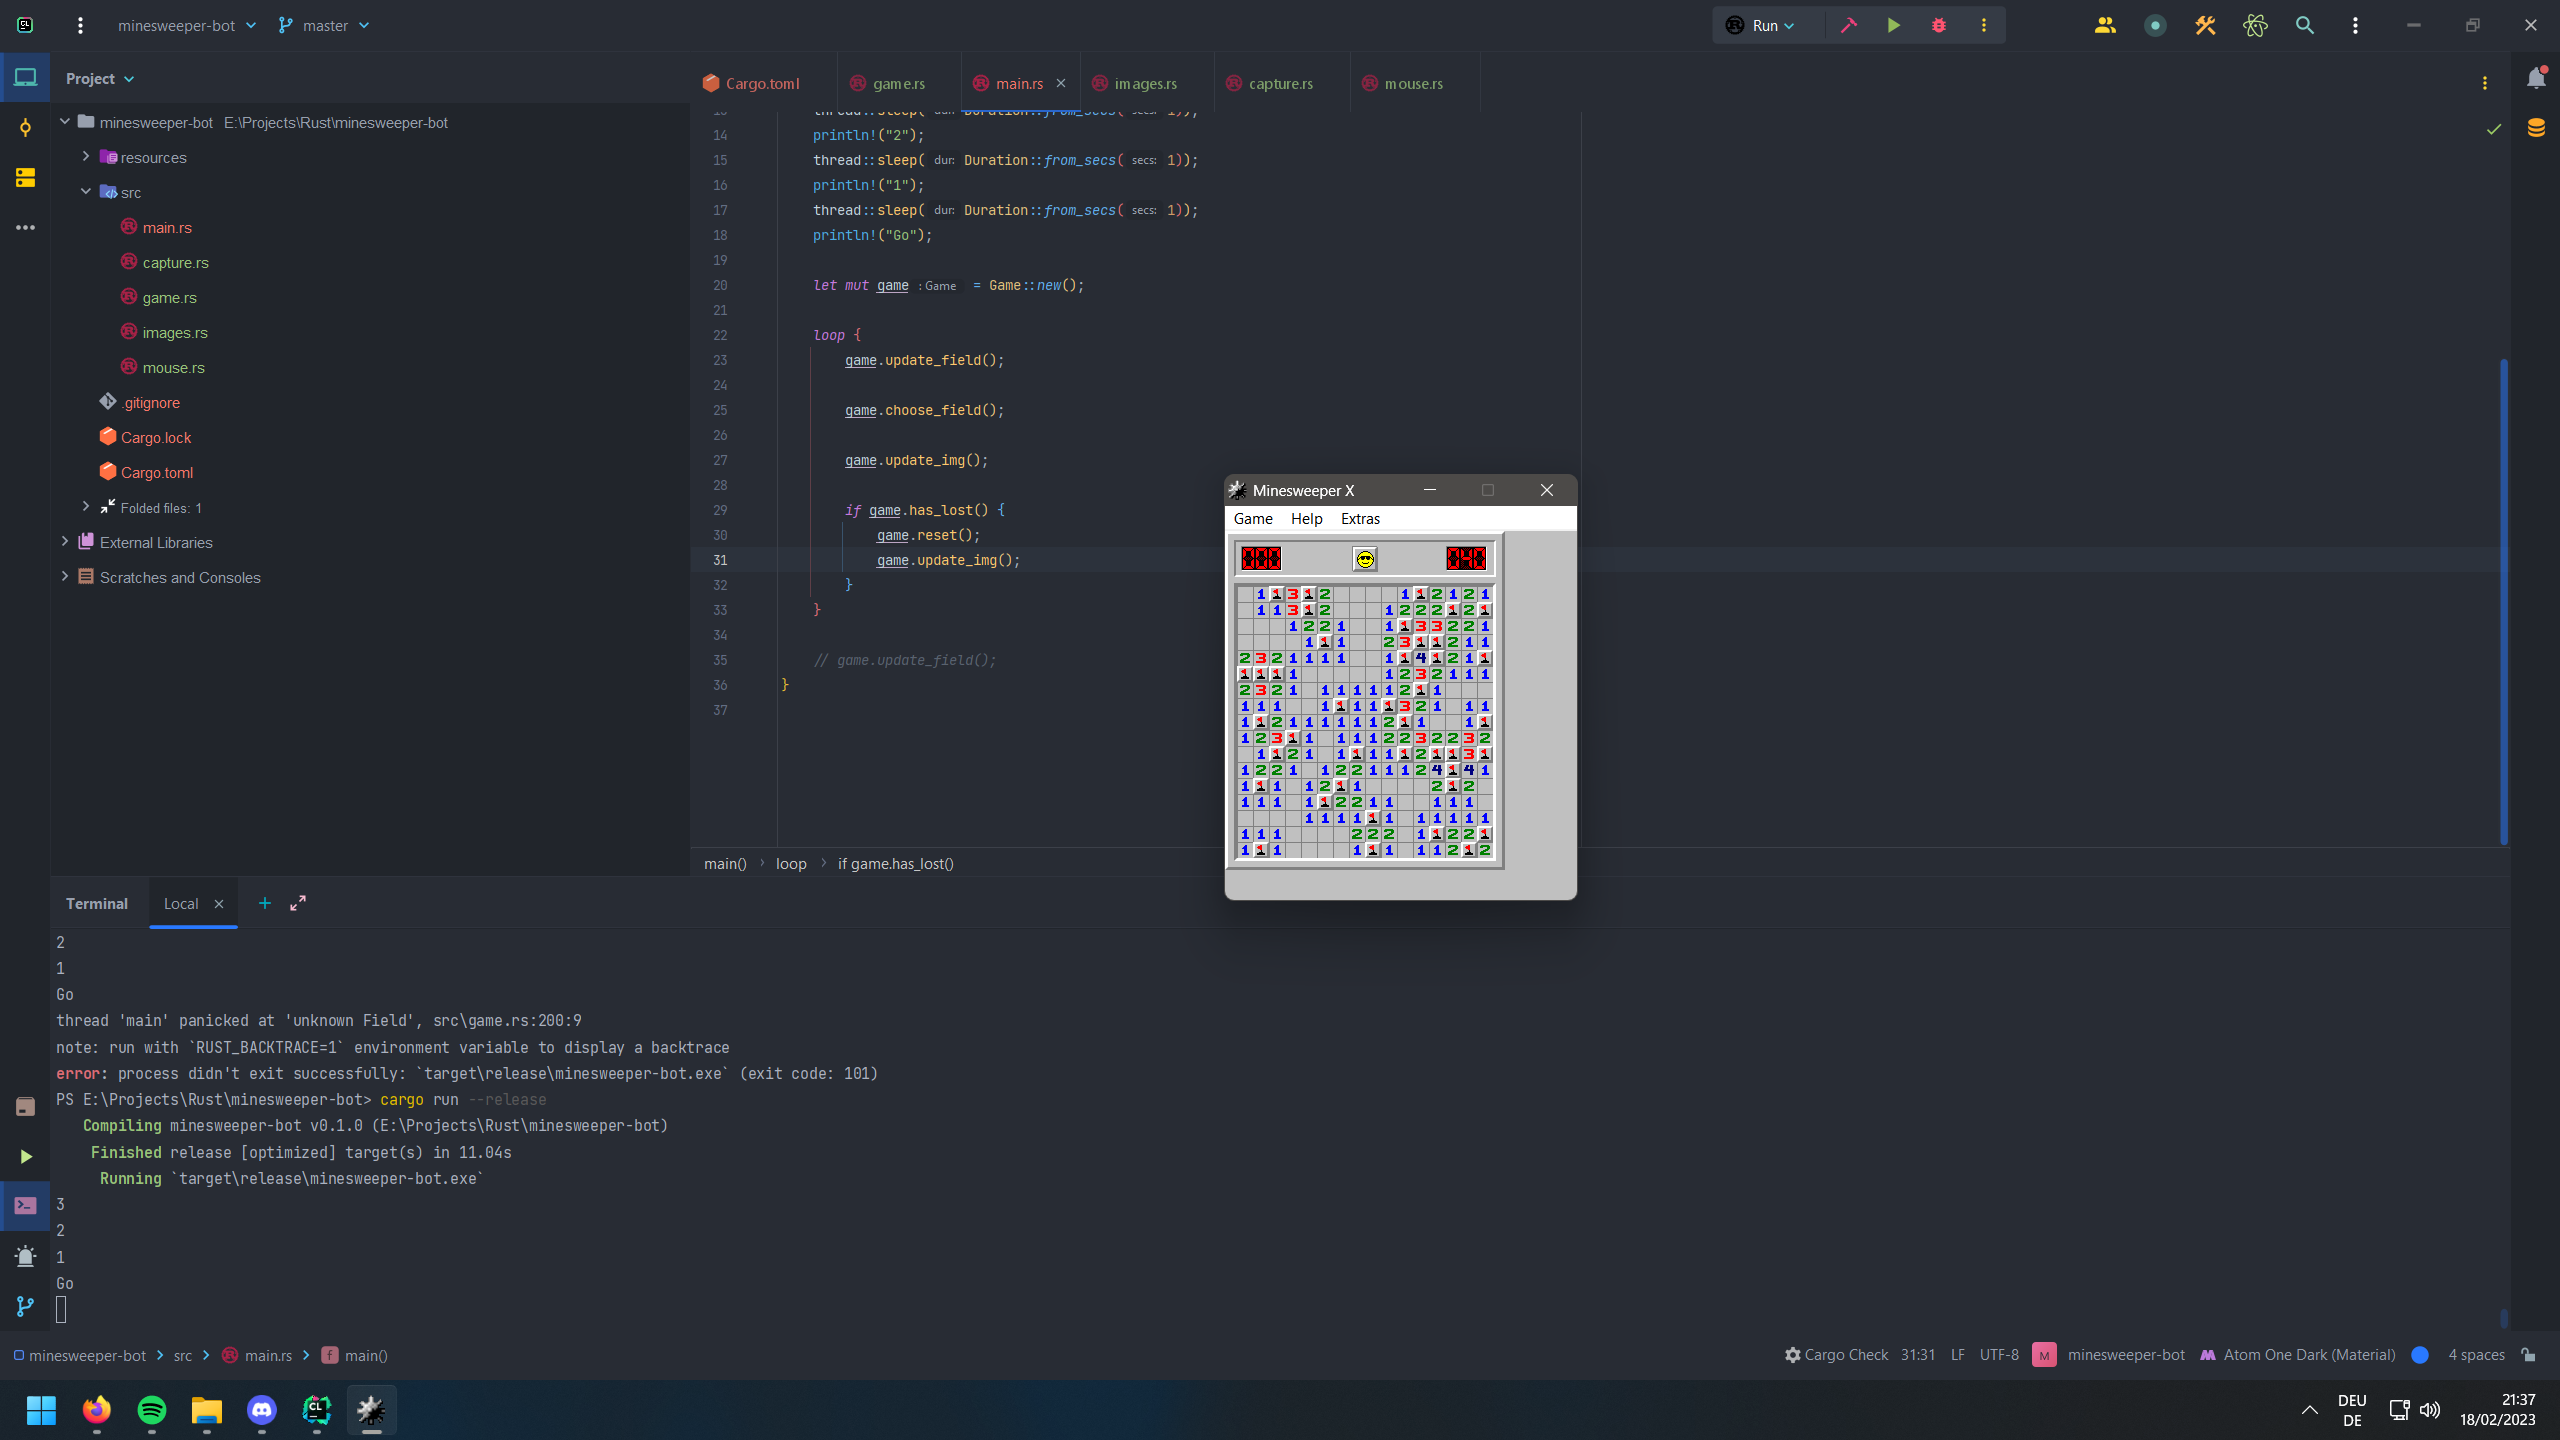
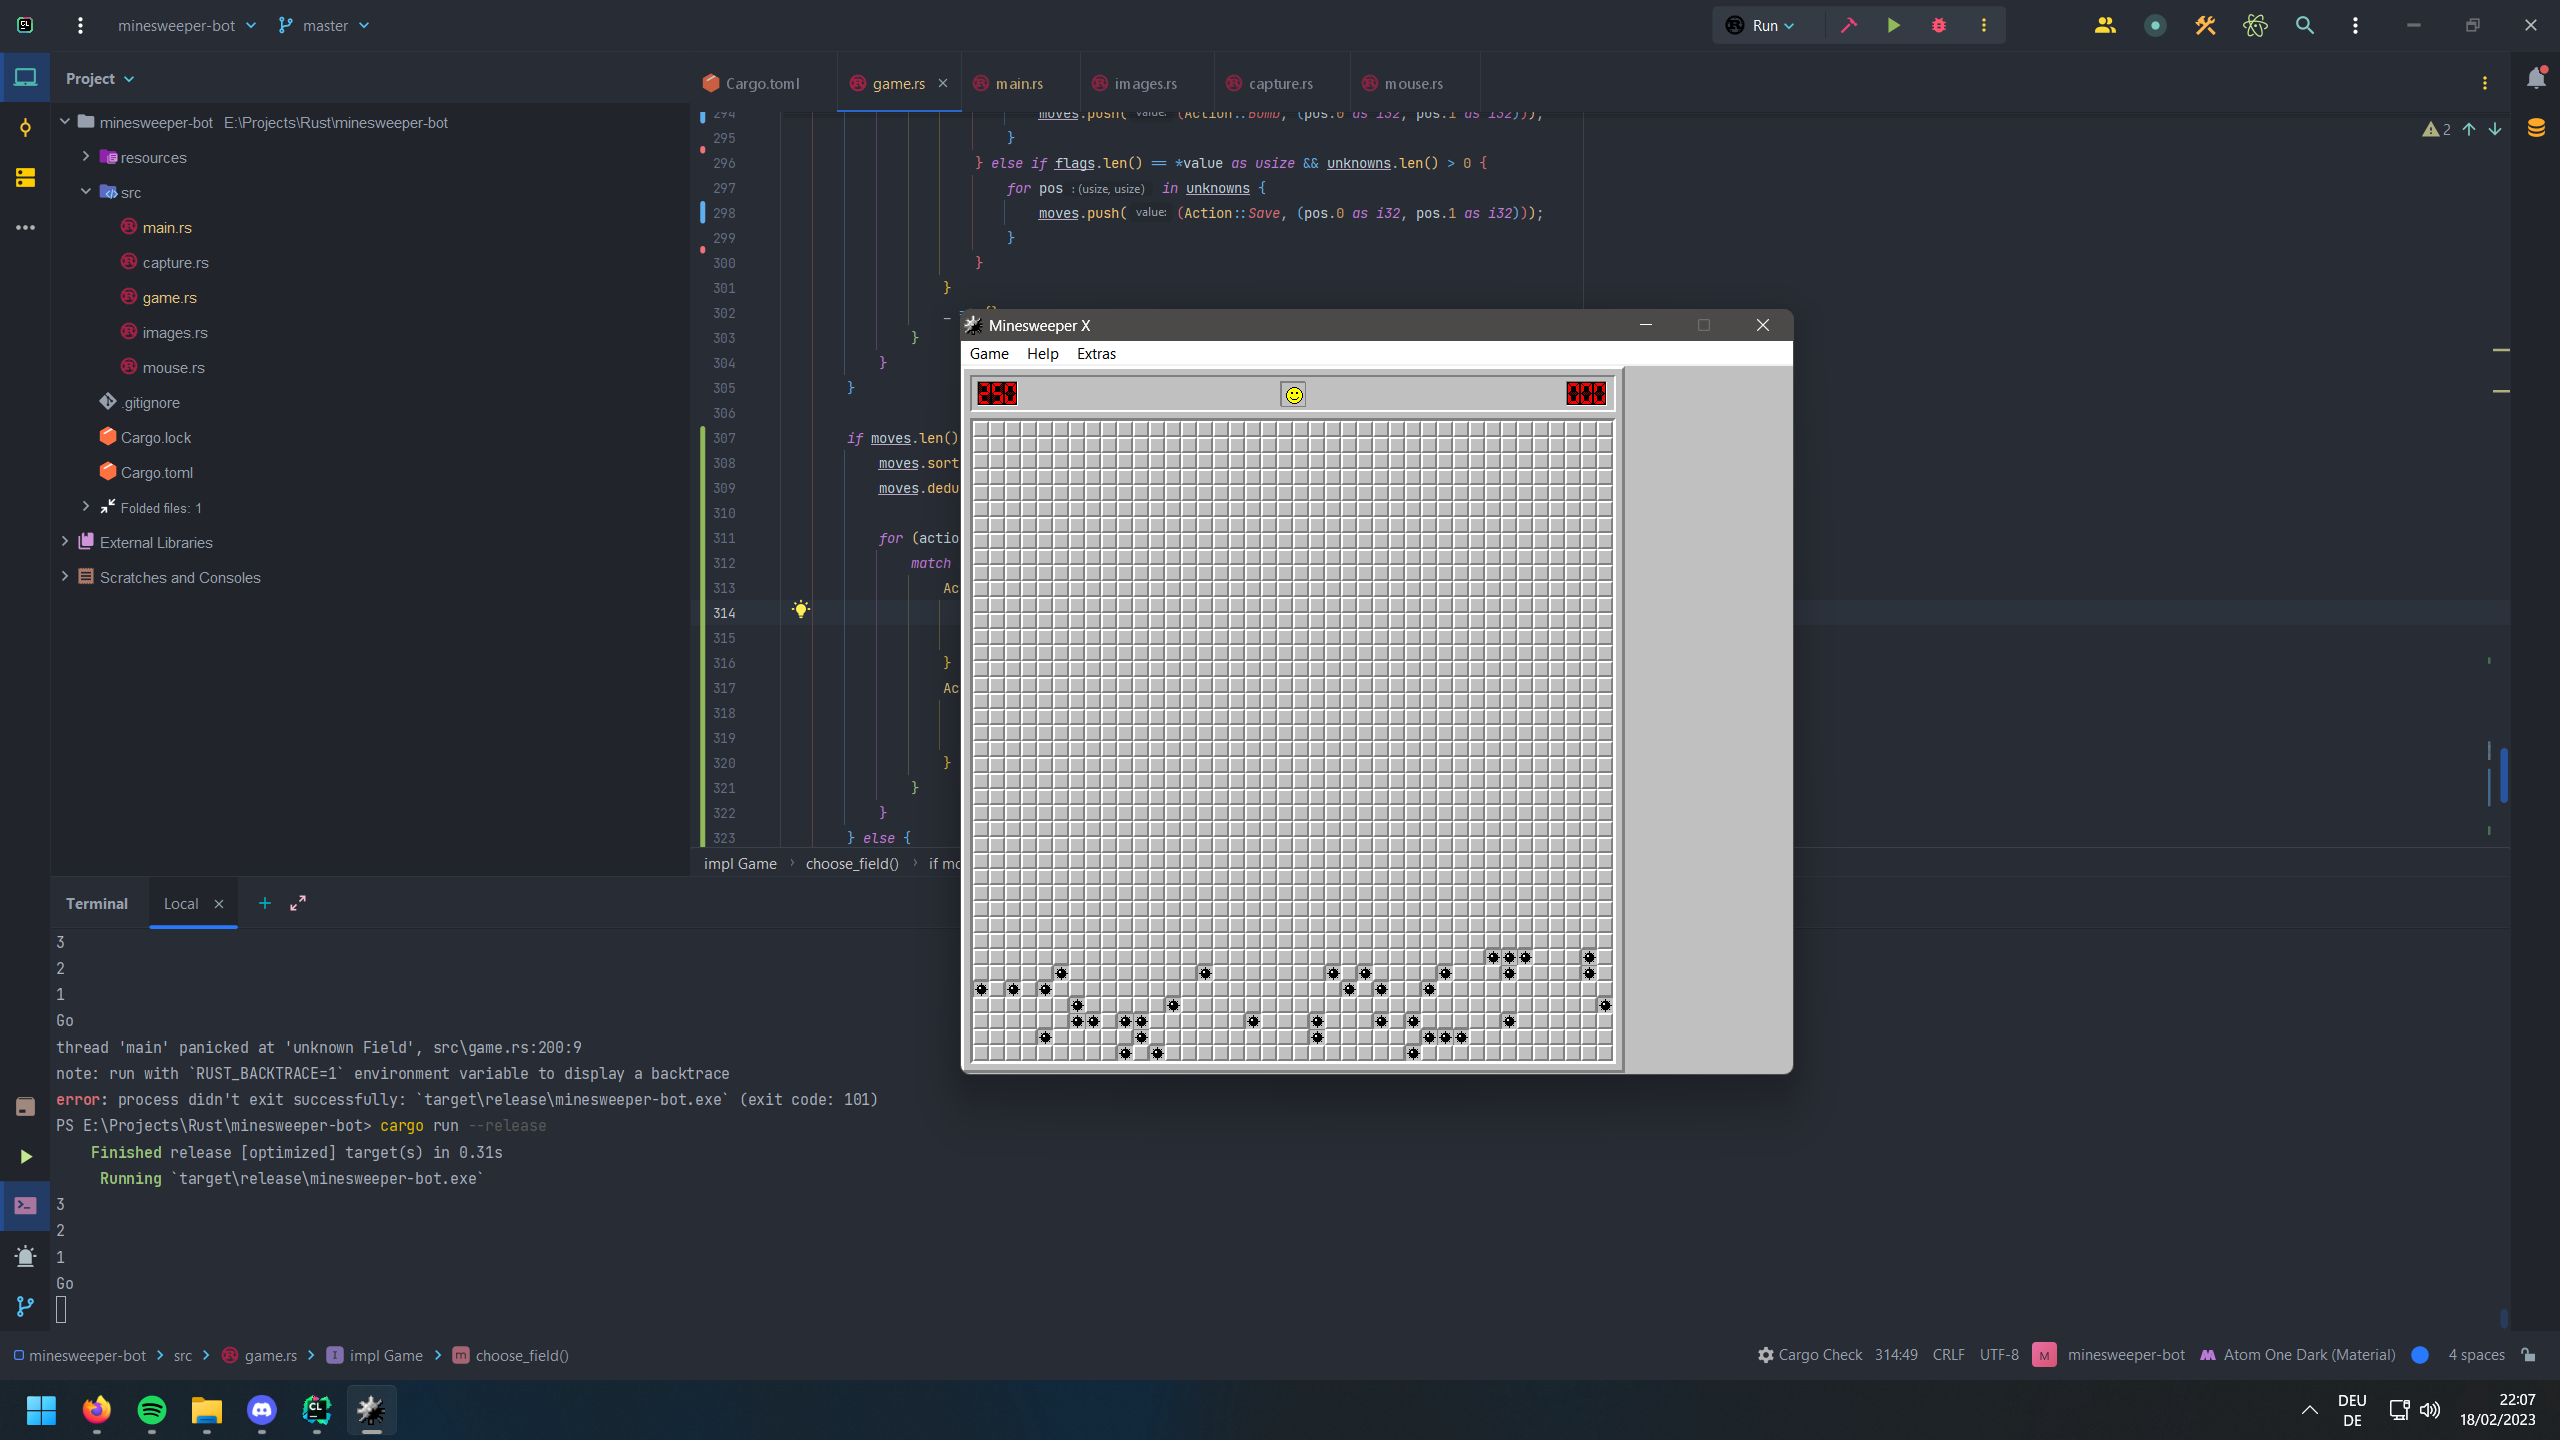
better perfomance

diff --git a/src/game.rs b/src/game.rs
@@ -250,6 +250,8 @@ impl Game {
     }
 
     pub fn choose_field(&self) {
+        let mut moves = vec![];
+
         for (x, line) in self.field.iter().enumerate() {
             let x = x as i32;
             for (y, state) in line.iter().enumerate() {
@@ -289,16 +291,12 @@ impl Game {
 
                         if (unknowns.len() + flags.len()) == *value as usize && unknowns.len() > 0 {
                             for pos in unknowns {
-                                self.move_to_cell(pos.0 as i32, pos.1 as i32);
-                                rigth_click();
+                                moves.push((Action::Bomb, (pos.0 as i32, pos.1 as i32)));
                             }
-                            return;
                         } else if flags.len() == *value as usize && unknowns.len() > 0 {
                             for pos in unknowns {
-                                self.move_to_cell(pos.0 as i32, pos.1 as i32);
-                                left_click();
+                                moves.push((Action::Save, (pos.0 as i32, pos.1 as i32)));
                             }
-                            return;
                         }
                     }
                     _ => {}
@@ -306,7 +304,25 @@ impl Game {
             }
         }
 
-        self.choose_random();
+        if moves.len() > 0 {
+            moves.sort_by(|a,b| a.1.cmp(&b.1));
+            moves.dedup_by(|a, b| a.1 == b.1);
+
+            for (action, (x, y)) in moves {
+                match action {
+                    Action::Bomb => {
+                        self.move_to_cell(x, y);
+                        rigth_click();
+                    }
+                    Action::Save => {
+                        self.move_to_cell(x, y);
+                        left_click();
+                    }
+                }
+            }
+        } else {
+            self.choose_random();
+        }
     }
 }
 
@@ -314,4 +330,9 @@ pub enum FieldState {
     Value(i32),
     Unknown,
     Flag,
+}
+
+enum Action {
+    Bomb,
+    Save,
 }

diff --git a/src/main.rs b/src/main.rs
@@ -31,6 +31,4 @@ fn main() {
             game.update_img();
         }
     }
-
-    // game.update_field();
 }
